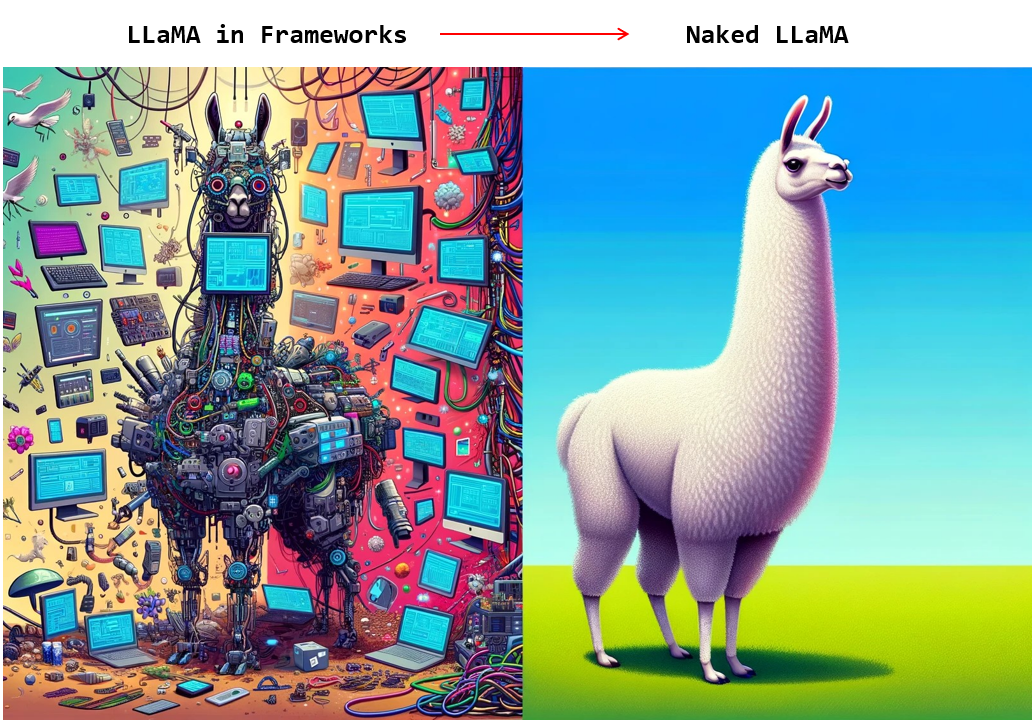
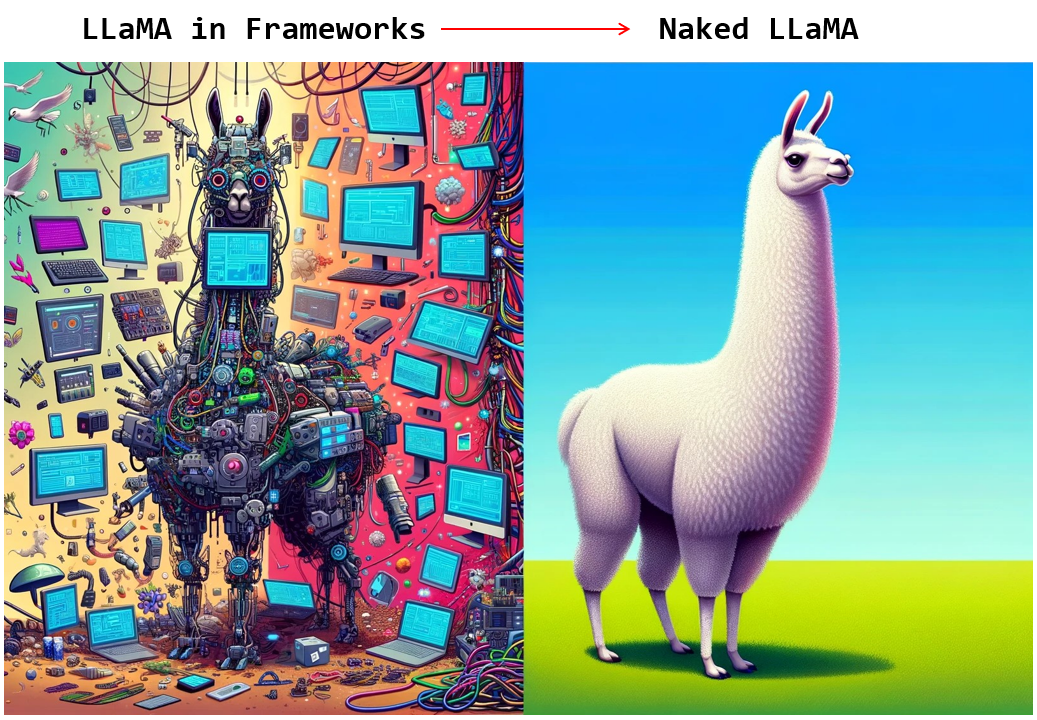
update readme & img

diff --git a/README.md b/README.md
@@ -4,9 +4,9 @@ Build llama inference compute from scrath, only using torch/numpy base ops
 
 Inspired by karpathy's awesome repo [nanoGPT](https://github.com/karpathy/nanoGPT), I re-implemented  a simple and clear llama model from scratch.
 
-<div style="text-align: center;">
-    <img src="llama-in-framwork_vs_naked-llama.png" width="400">
-</div>
+<p align="center">
+  <img width="380" src="llama-in-framwork_vs_naked-llama.png">
+</p>
 
 ## install
 
